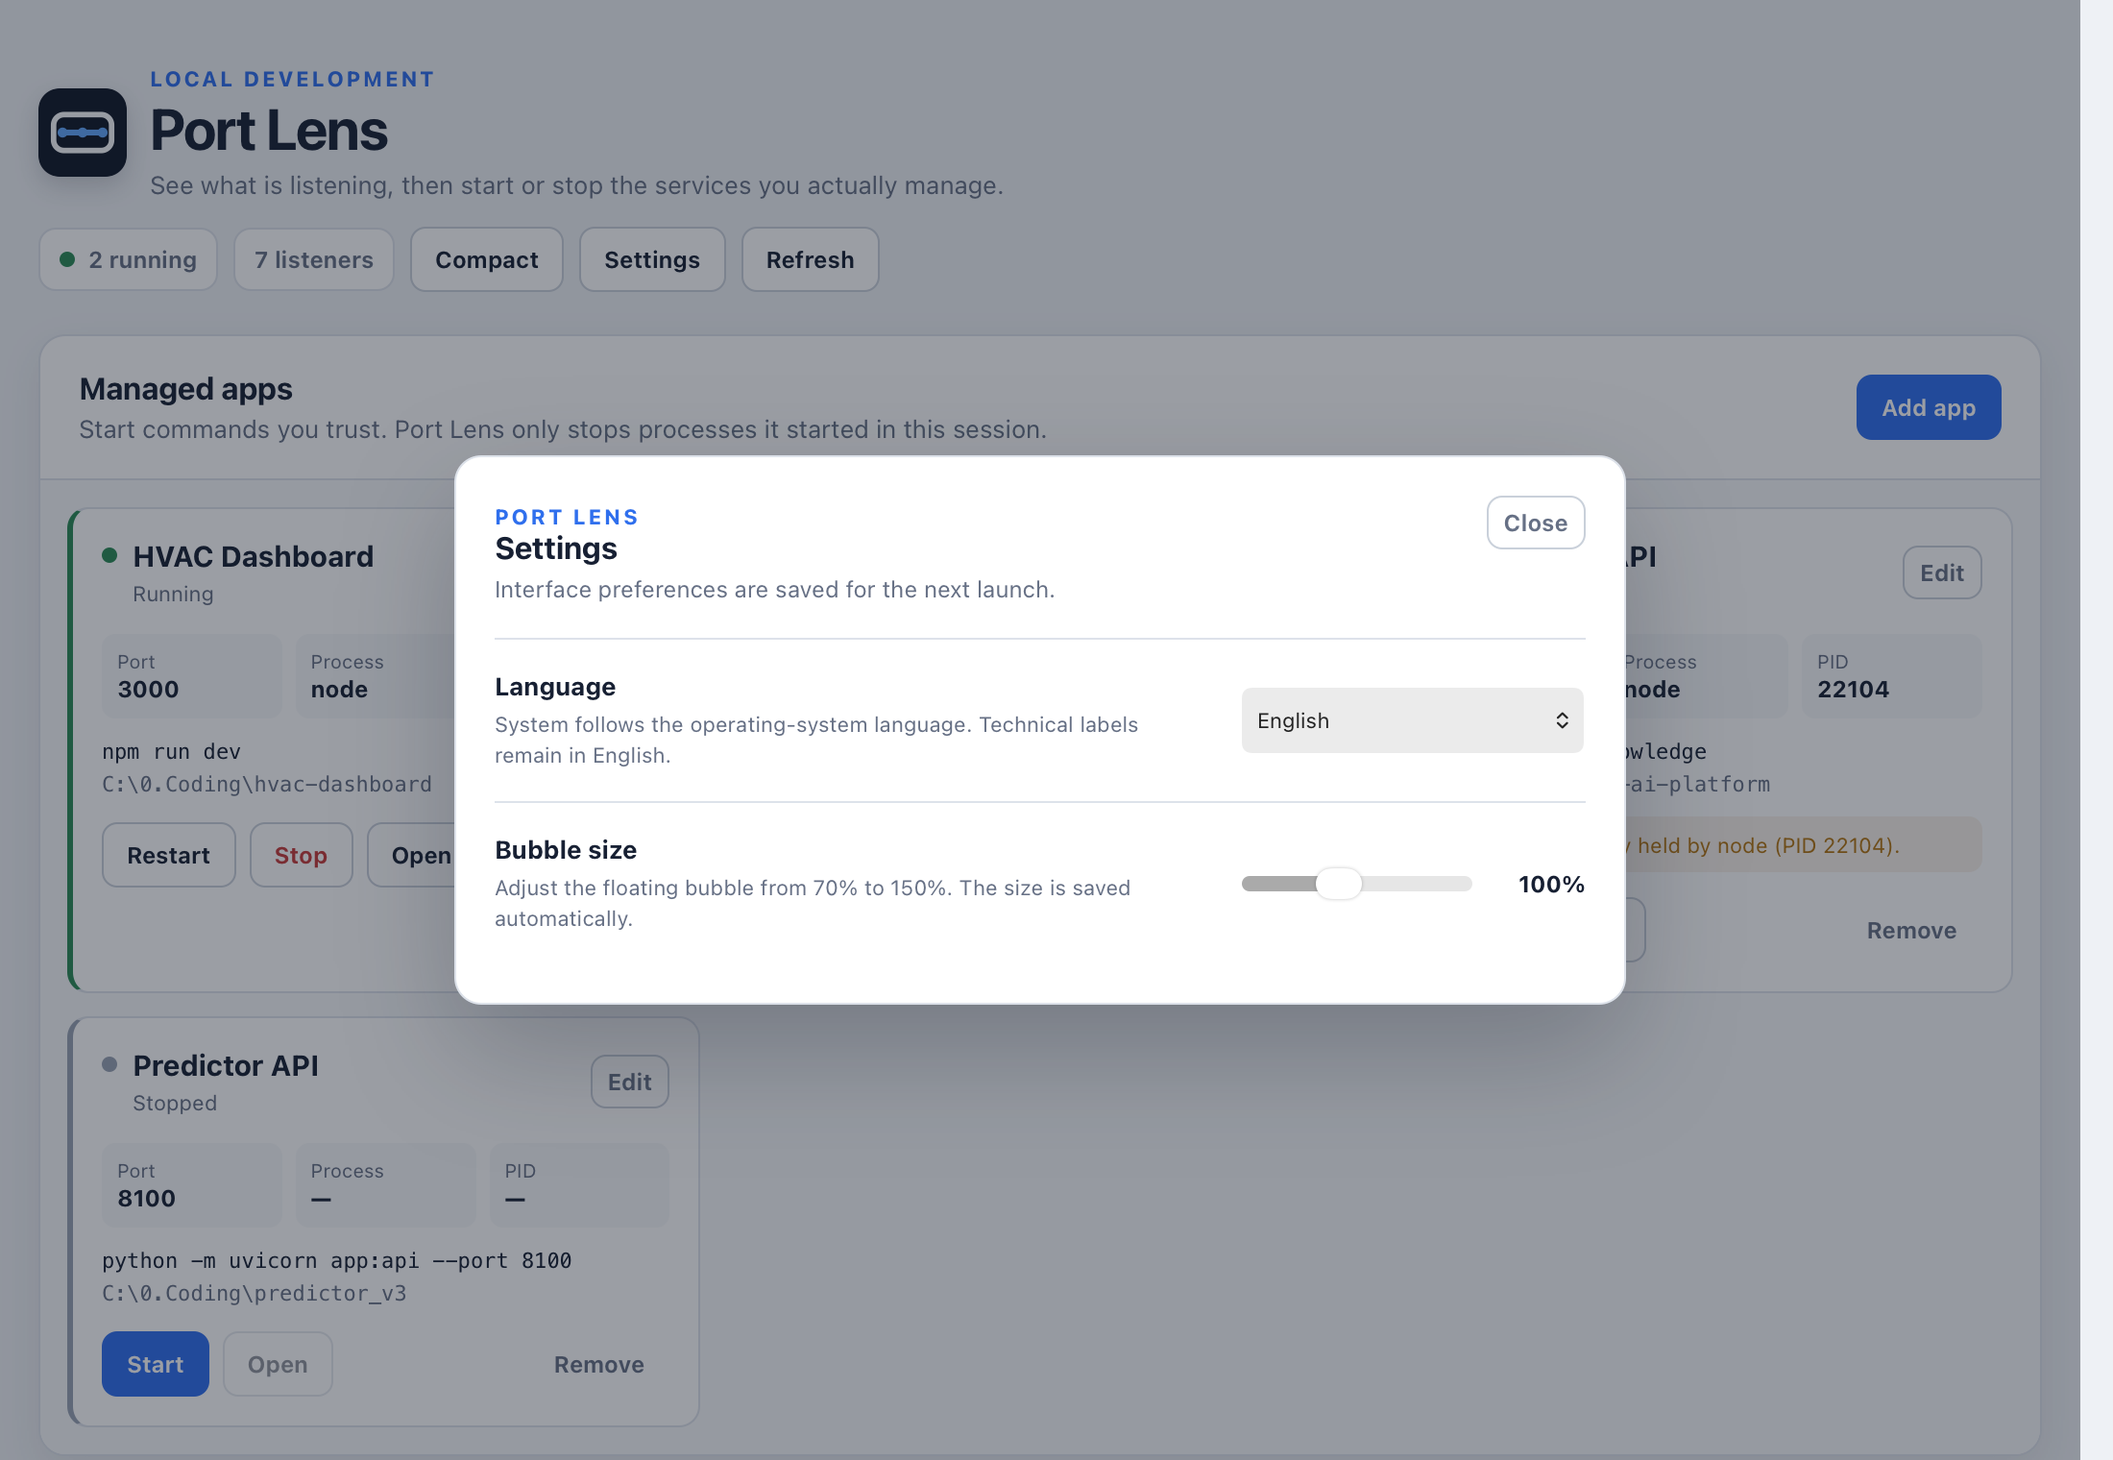
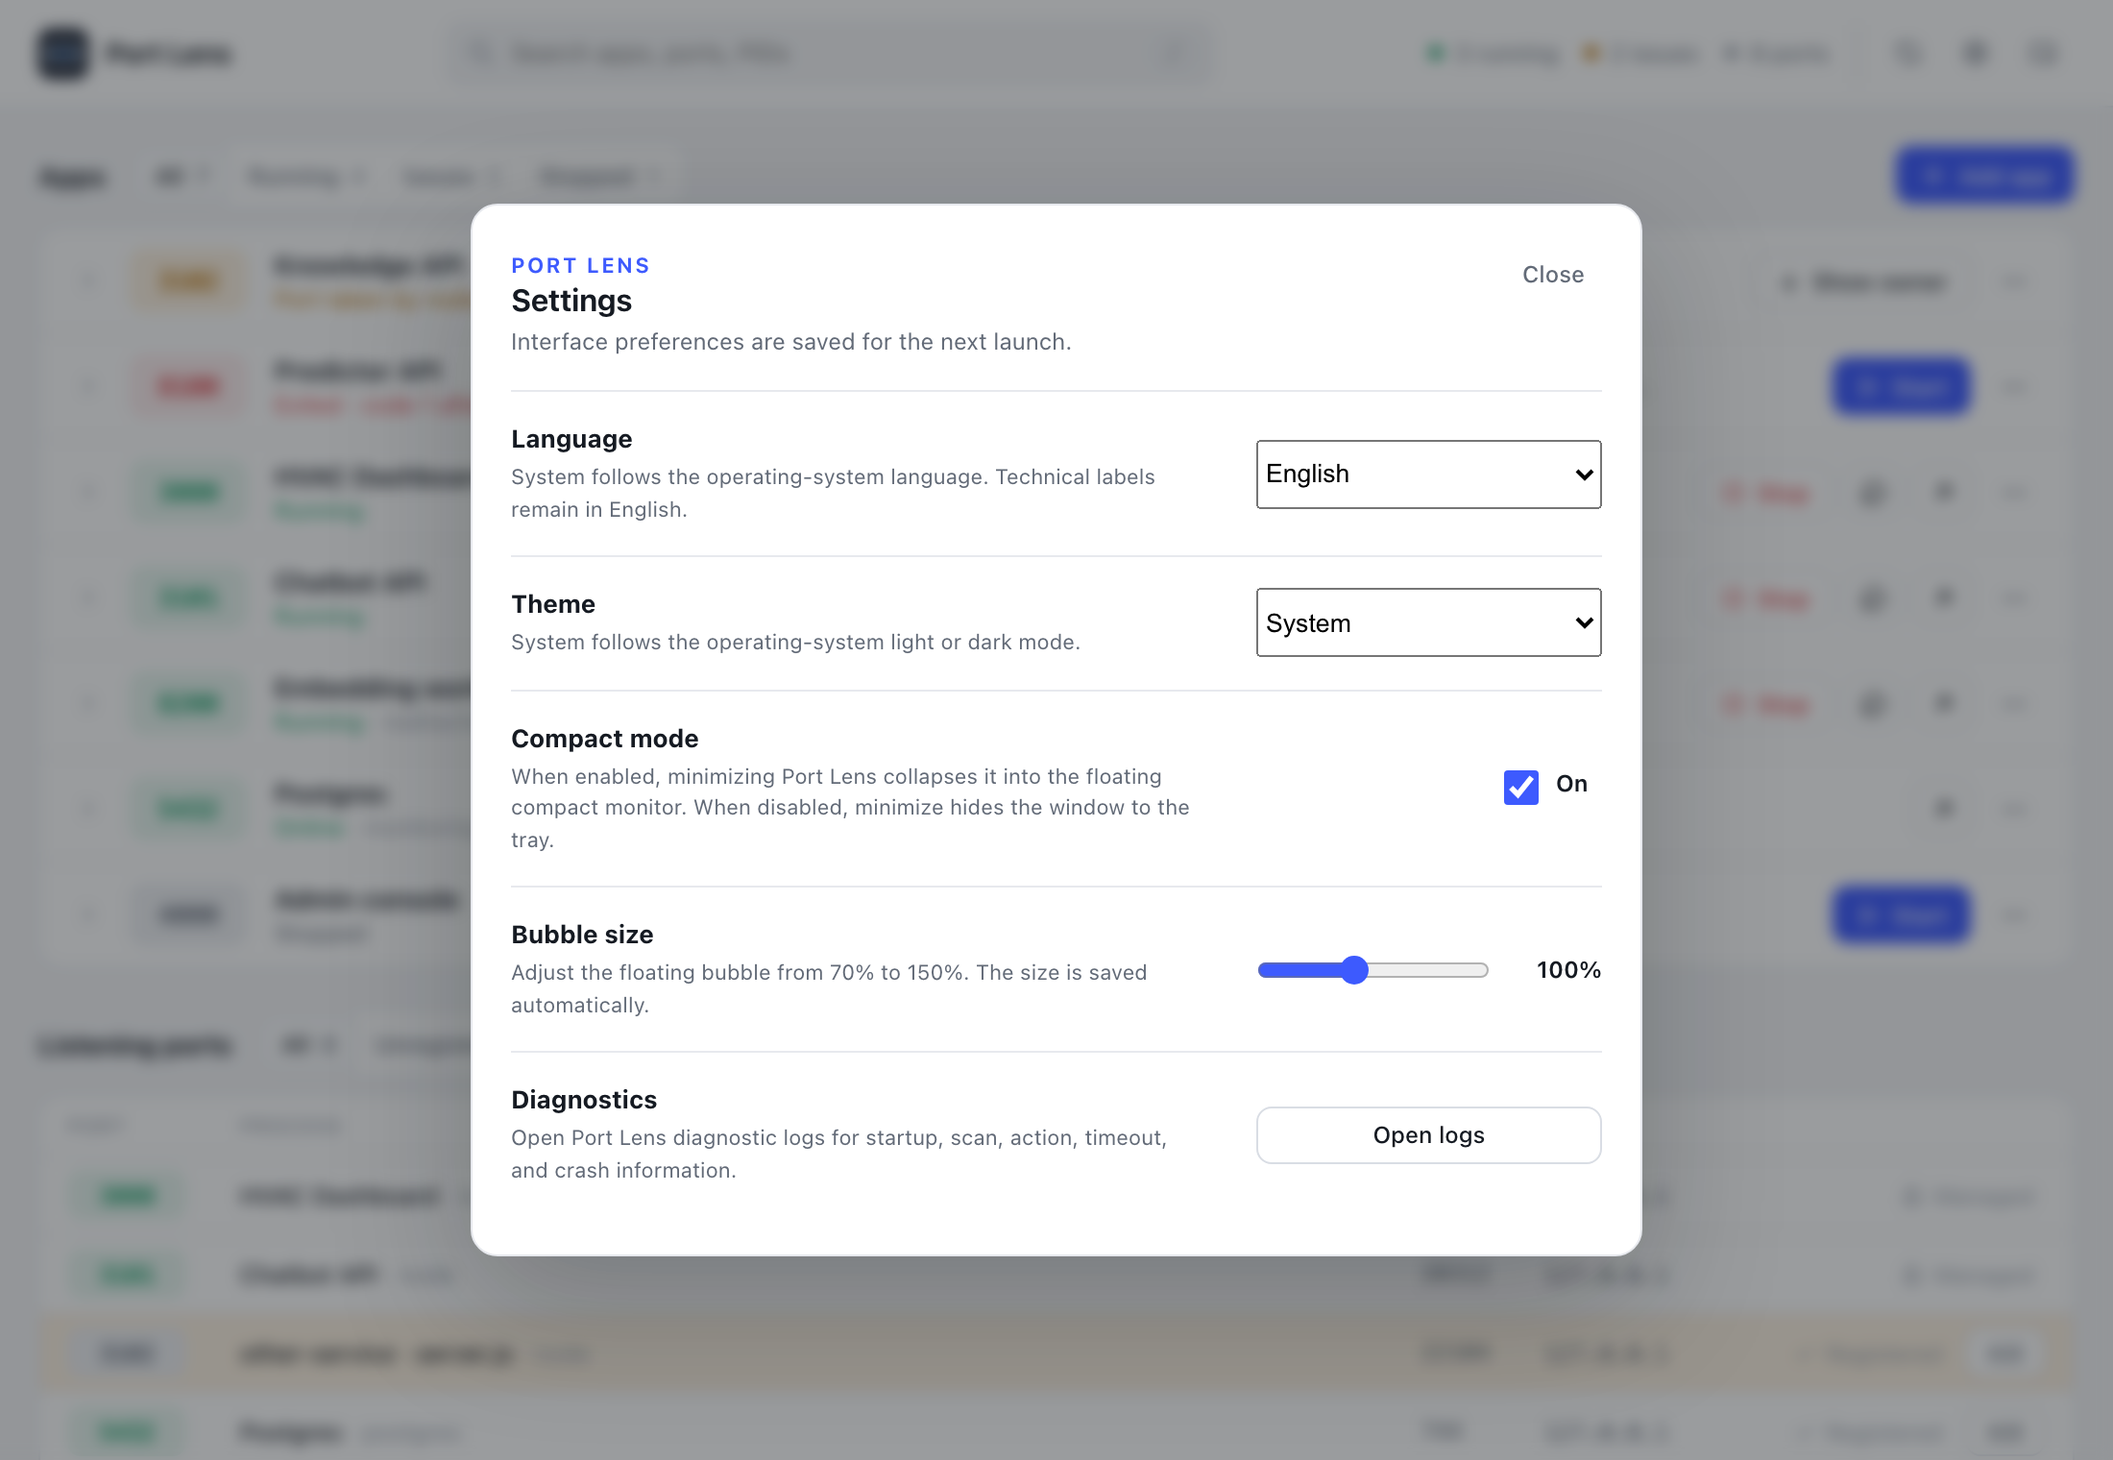
docs: refresh README for the redesigned UI and theme setting
Re-render the dashboard, app editor, terminate and settings screenshots
(EN/KO), add a dark-theme dashboard, and describe the app list, shared
search, Show owner, LAN badge and theme preference.

diff --git a/README.md b/README.md
@@ -33,12 +33,16 @@ The primary runtime target is **Windows 11**. macOS listener discovery is also i
 - **Live port discovery** — enumerate active TCP LISTEN endpoints directly from Windows or macOS.
 - **Friendly app identity** — show a registered app name first; otherwise derive a conservative runtime hint from the process command line while retaining the real executable name and PID.
 - **Managed app controls** — register a trusted command, working directory, and preferred port for one-click Start / Stop / Restart.
+- **Dense app list** — one row per app with a status-colored port tile and the reason behind its state; issues sort first, rows expand for details, and Running / Issues / Stopped filters scale to many registered apps.
+- **Shared search** — one search box (`/` to focus) filters both registered apps and listening ports by name, port, PID, process, or command.
 - **Existing-listener registration** — register an already-running external listener as a persistent monitoring-only App without granting destructive lifecycle ownership.
 - **Verified runtime reattach** — after Port Lens restarts, reconnect only to previously managed runtimes whose saved process identity still matches creation-time and root-ancestry checks.
-- **Conflict visibility** — refuse to start a managed app when another process already owns its port instead of silently killing the blocker.
+- **Conflict visibility** — refuse to start a managed app when another process already owns its port instead of silently killing the blocker; **Show owner** jumps to and highlights that process in Listening ports.
 - **Safe unmanaged termination** — confirm before terminating an unknown listener and re-check the selected PID + port immediately before the kill.
+- **Network exposure hint** — listeners bound to all interfaces (`0.0.0.0`, `::`) carry a `LAN` badge.
 - **Compact bubble** — collapse the dashboard into an always-on-top `running apps / listening ports` monitor, hover to inspect registered apps in a separate compact panel, resize it from 70% to 150%, and restore it with one click.
 - **Language preference** — follow the system language or explicitly choose English / 한국어 while keeping technical control labels in English.
+- **Theme preference** — follow the system light/dark mode or choose Light / Dark; the native title bar follows the same choice.
 - **Native system tray** — reopen the dashboard, show the compact bubble, refresh, or quit without keeping the main window in front.
 - **Portable Windows build** — run the same GUI from a single unsigned EXE without installation.
 - **Responsive dashboard** — use the available desktop width instead of keeping a fixed narrow content column when maximized.
@@ -54,7 +58,10 @@ The primary runtime target is **Windows 11**. macOS listener discovery is also i
 <td width="32%" align="center"><img src=".github/assets/compact-bubble.png" width="300" alt="Port Lens compact bubble"><br><sub>Compact Bubble — running managed apps and total listening ports at a glance</sub></td>
 </tr>
 <tr>
-<td colspan="3" align="center"><img src=".github/assets/settings.png" width="620" alt="Port Lens settings"><br><sub>Settings — System / English / 한국어 and persistent 70%–150% bubble sizing</sub></td>
+<td colspan="3" align="center"><img src=".github/assets/dashboard-dark.png" width="820" alt="Port Lens dashboard in dark theme"><br><sub>Dark theme — an expanded row shows the exit notice, command, folder, listener, and URL</sub></td>
+</tr>
+<tr>
+<td colspan="3" align="center"><img src=".github/assets/settings.png" width="620" alt="Port Lens settings"><br><sub>Settings — System / English / 한국어, System / Light / Dark theme, and persistent 70%–150% bubble sizing</sub></td>
 </tr>
 </table>
 
@@ -104,7 +111,7 @@ This is intentionally more conservative than automatically taking ownership of a
 
 ## Compact Bubble & Tray
 
-The dashboard can collapse into a small always-on-top bubble showing `running managed apps / total managed apps` and the current number of listening ports. Hovering the bubble opens a separate compact panel with the registered app list. Bubble size is configurable from **70% to 150% in 10% steps** and is persisted with the language preference. Expanding restores the previous window size, position, and maximized state.
+The dashboard can collapse into a small always-on-top bubble showing `running managed apps / total managed apps` and the current number of listening ports. Hovering the bubble opens a separate compact panel with the registered app list. Bubble size is configurable from **70% to 150% in 10% steps** and is persisted with the language and theme preferences. Expanding restores the previous window size, position, and maximized state.
 
 Compact mode keeps monitoring active while idle. During an actual drag, polling-result application is briefly deferred and refreshed again when the drag ends so the bubble remains current without reintroducing the earlier sustained drag catch-up behavior.
 
@@ -156,7 +163,7 @@ dev-mock/port-lens.json     # ignored by git
 
 `dev-mock/` is served only when Vite is running in development mode. The frontend will request it only when both `import.meta.env.DEV` and `?mock=1` are true. Normal `tauri dev` without that query and every production build continue to use Tauri IPC and real OS data.
 
-The local screenshot states include `?mock=1` for the dashboard, `?mock=1&screen=app-editor`, `?mock=1&screen=terminate`, `?mock=1&screen=settings&lang=ko`, and `?mock=1&bubble=1&bubbleScale=1.5`. `scripts/capture-webkit.swift` renders those states to PNG without requiring macOS Screen Recording permission.
+The local screenshot states include `?mock=1` for the dashboard, `?mock=1&screen=app-editor`, `?mock=1&screen=terminate`, `?mock=1&screen=settings&lang=ko`, and `?mock=1&bubble=1&bubbleScale=1.5`. `scripts/capture-webkit.swift` renders those states to PNG without requiring macOS Screen Recording permission. The dashboard images show one expanded row, which needs a click before capture, and `dashboard-dark.png` is the same state rendered with a dark color scheme.
 
 The committed `.github/assets/*.png` files are rendered documentation outputs only; the synthetic fixture itself is not committed or packaged.
 
@@ -172,7 +179,7 @@ Rust backend
  ├─ ports.rs            listener discovery + command-line metadata
  ├─ process_control.rs  spawn / stop / terminate process trees
  ├─ registry.rs         persisted Managed App configuration
- ├─ settings.rs         language + compact-mode preferences
+ ├─ settings.rs         language, theme + compact-mode preferences
  ├─ bubble.rs           compact native-window lifecycle
  └─ lib.rs              commands, tray, events, window lifecycle
 ```
@@ -201,7 +208,7 @@ No source code from those projects is copied into Port Lens; they are interactio
 
 ## Current Scope
 
-TCP listeners, Managed Apps, registration of already-running external listeners as monitoring-only Apps, verified runtime reattach, safe process control, friendly app identification, responsive desktop UI, tray residency, configurable compact bubble mode, English/Korean interface preferences, and Windows installer/portable packaging are implemented. UDP discovery and HTTP health checks remain future work. Lifecycle ownership is intentionally limited to Port Lens-started runtimes or runtimes that pass verified reattach checks.
+TCP listeners, Managed Apps, registration of already-running external listeners as monitoring-only Apps, verified runtime reattach, safe process control, friendly app identification, responsive desktop UI, tray residency, configurable compact bubble mode, English/Korean and light/dark interface preferences, and Windows installer/portable packaging are implemented. UDP discovery and HTTP health checks remain future work. Lifecycle ownership is intentionally limited to Port Lens-started runtimes or runtimes that pass verified reattach checks.
 
 Port Lens records its own Start/Stop/Restart requests, results and observed process
 exits in the rotating `port-lens.log`. It does not capture managed App stdout/stderr:

diff --git a/README.ko.md b/README.ko.md
@@ -32,12 +32,16 @@ Port Lens는 **지금 이 Port를 어떤 process가 사용하고 있고, 그 pro
 - **실시간 Port 탐지** — Windows/macOS에서 TCP LISTEN endpoint를 직접 조회합니다.
 - **Friendly App identity** — 등록 App 이름을 우선 표시하고, 미등록 listener는 command line에서 보수적으로 실행 힌트를 추론합니다. 실제 process 이름과 PID는 그대로 유지합니다.
 - **Managed App 제어** — 신뢰하는 command, working directory, Port를 등록해 Start / Stop / Restart합니다.
+- **밀도 높은 App 목록** — App마다 한 줄로 상태 색 Port 타일과 상태의 이유를 표시합니다. 문제가 있는 App이 먼저 정렬되고, 행을 펼쳐 상세를 보며, Running / Issues / Stopped 필터로 App이 많아도 쉽게 찾을 수 있습니다.
+- **통합 검색** — 하나의 검색창(`/`로 바로 이동)으로 등록 App과 listening Port를 이름, Port, PID, process, command로 함께 걸러냅니다.
 - **기존 listener 등록** — 이미 외부에서 실행 중인 listener를 destructive lifecycle ownership 없이 persistent monitoring-only App으로 등록할 수 있습니다.
 - **검증된 runtime reattach** — Port Lens 재시작 후에도 저장된 process identity가 creation-time 및 root-ancestry 검사를 통과한 기존 Managed Runtime에만 다시 연결합니다.
-- **Port 충돌 표시** — 지정 Port가 이미 사용 중이면 blocker를 임의 종료하지 않고 충돌 상태를 표시합니다.
+- **Port 충돌 표시** — 지정 Port가 이미 사용 중이면 blocker를 임의 종료하지 않고 충돌 상태를 표시합니다. **Show owner**로 Listening ports의 해당 process로 이동해 강조합니다.
 - **안전한 unmanaged 종료** — Kill 전 명시적 확인을 받고, 실제 종료 직전에 PID + Port 소유 관계를 다시 검사합니다.
+- **네트워크 노출 표시** — 모든 interface(`0.0.0.0`, `::`)에 바인딩된 listener에 `LAN` 배지를 표시합니다.
 - **Compact bubble** — `running apps / listening ports`를 always-on-top bubble로 표시하고, hover 시 별도 compact panel에서 등록 App 목록을 확인하며, 70%~150% 크기를 선택할 수 있습니다.
 - **Language 설정** — System / English / 한국어를 지원하며 App, Port, Process 같은 기술 label은 영어로 유지합니다.
+- **Theme 설정** — 운영체제의 라이트/다크 모드를 따르거나 Light / Dark를 직접 선택합니다. 창 제목 표시줄도 같은 테마를 따릅니다.
 - **Native tray** — dashboard 열기, bubble 표시, Refresh, Quit을 system tray에서 수행합니다.
 - **Windows Portable** — 설치 없이 single EXE로 실행할 수 있습니다.
 - **Responsive dashboard** — 창을 최대화하면 고정 폭에 갇히지 않고 사용 가능한 desktop 공간을 활용합니다.
@@ -52,7 +56,10 @@ Port Lens는 **지금 이 Port를 어떤 process가 사용하고 있고, 그 pro
 <td width="32%" align="center"><img src=".github/assets/compact-bubble.png" width="300" alt="Port Lens compact bubble"><br><sub>Compact Bubble — 실행 중인 Managed App과 listening Port를 한눈에 확인</sub></td>
 </tr>
 <tr>
-<td colspan="3" align="center"><img src=".github/assets/settings-ko.png" width="620" alt="Port Lens 한국어 설정"><br><sub>Settings — System / English / 한국어와 70%~150% Bubble size 설정</sub></td>
+<td colspan="3" align="center"><img src=".github/assets/dashboard-dark.png" width="820" alt="Port Lens 다크 테마 dashboard"><br><sub>Dark theme — 펼친 행에서 종료 안내, command, folder, listener, URL 확인</sub></td>
+</tr>
+<tr>
+<td colspan="3" align="center"><img src=".github/assets/settings-ko.png" width="620" alt="Port Lens 한국어 설정"><br><sub>Settings — System / English / 한국어, System / Light / Dark 테마, 70%~150% Bubble size 설정</sub></td>
 </tr>
 </table>
 
@@ -152,7 +159,7 @@ dev-mock/port-lens.json     # gitignore
 
 `dev-mock/`은 Vite development mode에서만 제공되고 frontend도 `import.meta.env.DEV`와 `?mock=1`이 모두 성립할 때만 요청합니다. 일반 `tauri dev`와 production build는 Tauri IPC를 통해 실제 OS data만 사용합니다.
 
-Screenshot state에는 dashboard, App editor, terminate dialog, 한국어 Settings, 다양한 Bubble size가 포함됩니다. `scripts/capture-webkit.swift`를 사용해 macOS Screen Recording 권한 없이 PNG를 생성합니다.
+Screenshot state에는 dashboard, App editor, terminate dialog, 한국어 Settings, 다양한 Bubble size가 포함됩니다. `scripts/capture-webkit.swift`를 사용해 macOS Screen Recording 권한 없이 PNG를 생성합니다. Dashboard 이미지는 행 하나를 펼친 상태라 캡처 전에 클릭이 필요하며, `dashboard-dark.png`는 같은 상태를 다크 color scheme으로 렌더링한 것입니다.
 
 `.github/assets/*.png`에는 문서용 렌더링 결과만 commit하며 synthetic fixture 자체는 commit하거나 package하지 않습니다.
 
@@ -168,7 +175,7 @@ Rust backend
  ├─ ports.rs            listener discovery + command-line metadata
  ├─ process_control.rs  spawn / stop / terminate process trees
  ├─ registry.rs         persisted Managed App configuration
- ├─ settings.rs         language + compact-mode preferences
+ ├─ settings.rs         language, theme + compact-mode preferences
  ├─ bubble.rs           compact native-window lifecycle
  └─ lib.rs              commands, tray, events, window lifecycle
 ```
@@ -196,7 +203,7 @@ Port Lens는 독립 구현이며 다음 프로젝트에서 interaction/architect
 
 ## 현재 범위
 
-TCP listener, Managed App, 이미 외부에서 실행 중인 listener의 monitoring-only App 등록, verified runtime reattach, 안전한 process 제어, friendly App identification, responsive UI, tray, 크기 조절 가능한 Compact Bubble, English/한국어 preference, Windows installer/Portable packaging이 구현되어 있습니다. UDP 탐지와 HTTP health check는 향후 범위입니다. Lifecycle ownership은 Port Lens가 직접 시작했거나 verified reattach 검사를 통과한 runtime에만 부여합니다.
+TCP listener, Managed App, 이미 외부에서 실행 중인 listener의 monitoring-only App 등록, verified runtime reattach, 안전한 process 제어, friendly App identification, responsive UI, tray, 크기 조절 가능한 Compact Bubble, English/한국어 및 라이트/다크 preference, Windows installer/Portable packaging이 구현되어 있습니다. UDP 탐지와 HTTP health check는 향후 범위입니다. Lifecycle ownership은 Port Lens가 직접 시작했거나 verified reattach 검사를 통과한 runtime에만 부여합니다.
 
 Port Lens는 Start/Stop/Restart 요청·결과와 관찰한 프로세스 종료를 회전하는
 `port-lens.log`에 기록합니다. 관리 App의 stdout/stderr는 자동 수집하지 않으며,
